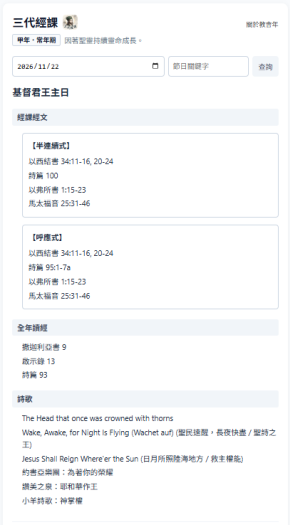
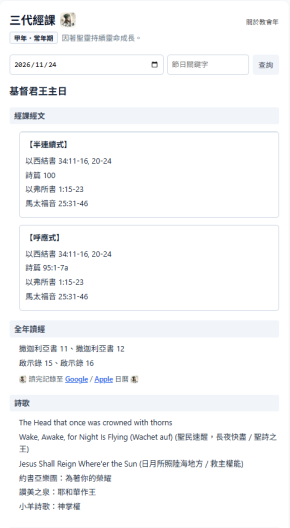
新增當日讀完記錄到日曆的功能

diff --git a/index.html b/index.html
@@ -46,6 +46,28 @@
         .season-badge-link:hover span {
             opacity: 0.9;
         }
+
+        /* 完讀日曆連結列樣式 */
+        .cal-sync-line {
+            margin-top: 10px;
+            font-size: 0.9rem;
+            color: #475569;
+        }
+        .cal-sync-line a {
+            color: #2563eb;
+            text-decoration: underline;
+            font-weight: 500;
+            cursor: pointer;
+        }
+        .cal-sync-line a:hover {
+            color: #1d4ed8;
+        }
+        .cal-mini-icon {
+            width: 16px;
+            height: 16px;
+            border-radius: 3px;
+            vertical-align: -3px;
+        }
     </style>
 </head>
 <body>
@@ -85,9 +107,94 @@
         "Pentecost": "聖靈降臨期", "Ordinary Time": "常年期"
     };
 
+    window._currentDailyReading = null;
+
     function getLocalDateString(dateObj) {
         const tzOffset = dateObj.getTimezoneOffset() * 60000;
         return new Date(dateObj - tzOffset).toISOString().split('T')[0];
+    }
+
+    function formatCompactDate(dateObj) {
+        const y = dateObj.getFullYear();
+        const m = String(dateObj.getMonth() + 1).padStart(2, '0');
+        const d = String(dateObj.getDate()).padStart(2, '0');
+        return `${y}${m}${d}`;
+    }
+
+    function buildCalendarPayload() {
+        const current = window._currentDailyReading;
+        if (!current || !current.dateObj || !current.daily) return null;
+
+        const { dateObj, daily } = current;
+        const allParts = [
+            ...(daily.ot || []),
+            ...(daily.nt || []),
+            ...(daily.ps_pr || [])
+        ];
+        if (allParts.length === 0) return null;
+
+        const title = `已讀完：${allParts.join('、')}`;
+
+        const startStr = formatCompactDate(dateObj);
+        const nextDayObj = new Date(dateObj.getFullYear(), dateObj.getMonth(), dateObj.getDate() + 1);
+        const endStr = formatCompactDate(nextDayObj);
+
+        return {
+            title,
+            startStr,
+            endStr
+        };
+    }
+
+    function addToGoogleCalendar() {
+        const payload = buildCalendarPayload();
+        if (!payload) return;
+
+        const url = `https://calendar.google.com/calendar/render?action=TEMPLATE` +
+            `&text=${encodeURIComponent(payload.title)}` +
+            `&dates=${payload.startStr}/${payload.endStr}`;
+
+        window.open(url, '_blank', 'noopener,noreferrer');
+    }
+
+    function addToAppleCalendar() {
+        const payload = buildCalendarPayload();
+        if (!payload) return;
+
+        const escapeICS = (str) => str
+            .replace(/\\/g, '\\\\')
+            .replace(/;/g, '\\;')
+            .replace(/,/g, '\\,')
+            .replace(/\n/g, '\\n');
+
+        const now = new Date();
+        const dtstamp = now.toISOString().replace(/[-:]/g, '').split('.')[0] + 'Z';
+        const uid = `lect-cht-${payload.startStr}-${Date.now()}@jameshhsu-source.github.io`;
+
+        const icsContent = [
+            'BEGIN:VCALENDAR',
+            'VERSION:2.0',
+            'PRODID:-//Lect_Cht_New//Daily Bible Reading//ZH',
+            'CALSCALE:GREGORIAN',
+            'BEGIN:VEVENT',
+            `UID:${uid}`,
+            `DTSTAMP:${dtstamp}`,
+            `DTSTART;VALUE=DATE:${payload.startStr}`,
+            `DTEND;VALUE=DATE:${payload.endStr}`,
+            `SUMMARY:${escapeICS(payload.title)}`,
+            'END:VEVENT',
+            'END:VCALENDAR'
+        ].join('\r\n');
+
+        const blob = new Blob([icsContent], { type: 'text/calendar;charset=utf-8' });
+        const url = URL.createObjectURL(blob);
+        const link = document.createElement('a');
+        link.href = url;
+        link.download = `讀經完讀_${payload.startStr}.ics`;
+        document.body.appendChild(link);
+        link.click();
+        document.body.removeChild(link);
+        setTimeout(() => URL.revokeObjectURL(url), 1000);
     }
 
     function getTitleStyle(colorStr) {
@@ -110,6 +217,8 @@
         const daily = DailyReadingPlan.getDailyReading(dateObj);
         if (!daily) return '';
 
+        window._currentDailyReading = { dateObj, daily };
+
         const linkList = (arr) => arr.map(item => LectionaryEngine.processScriptureLinks(item)).join('、');
 
         let rows = '';
@@ -125,7 +234,13 @@
 
         if (!rows) return '';
 
-        return `<div class="section-title">全年讀經</div><div class="data-list">${rows}</div>`;
+        const calendarLine = `
+            <div class="cal-sync-line">
+                <img src="favicon.png" alt="" class="cal-mini-icon"> 讀完記錄至 <a href="#" onclick="addToGoogleCalendar(); return false;">Google</a> / <a href="#" onclick="addToAppleCalendar(); return false;">Apple</a> 日曆 <img src="favicon.png" alt="" class="cal-mini-icon">
+            </div>
+        `;
+
+        return `<div class="section-title">全年讀經</div><div class="data-list">${rows}${calendarLine}</div>`;
     }
 
     window.onload = function() {
